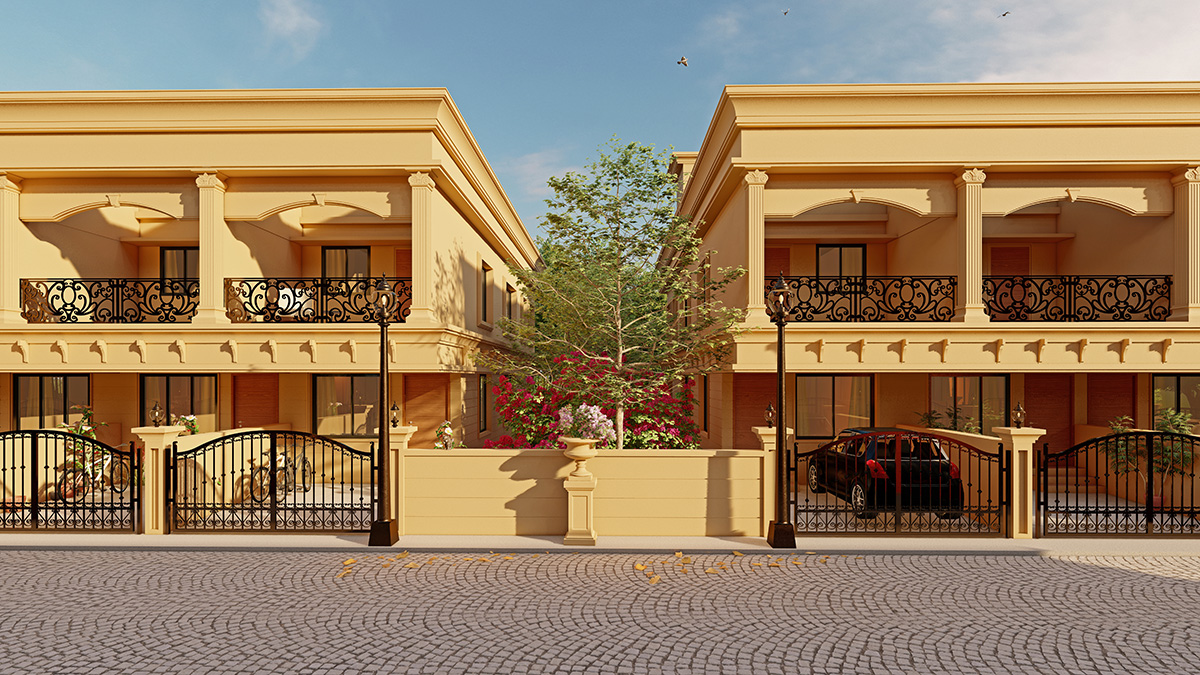
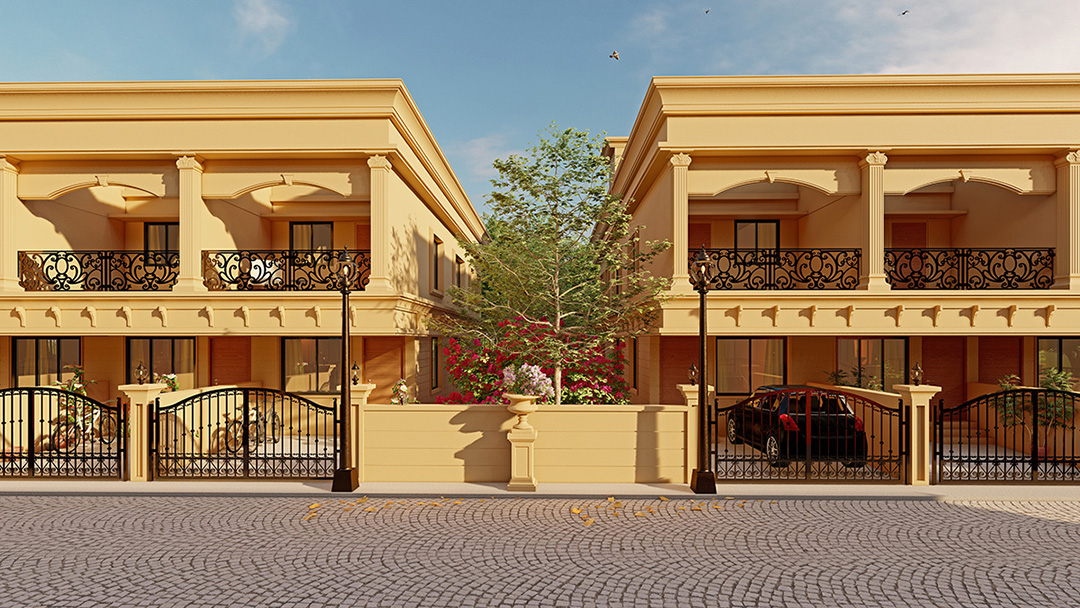
reduce img size

diff --git a/index.html b/index.html
@@ -5,6 +5,8 @@
 
   <meta charset="utf-8">
   <meta content="width=device-width, initial-scale=1.0" name="viewport">
+  <meta http-equiv="Cache-control" content="public" content="max-age=31536000">
+
 
   <title>Piccadilly Greens - Home</title>
   <meta content="Get ready to be awestruck with high quality row bungalows and live your dreams at Piccadilly Greens." name="description">
@@ -16,7 +18,7 @@
   <meta property="og:image" content="./assets/img/PG_Logo_3C.png">
 
  <!-- Google Fonts -->
-  <link href="https://fonts.googleapis.com/css?family=Open+Sans:300,300i,400,400i,600,600i,700,700i|Raleway:300,300i,400,400i,500,500i,600,600i,700,700i" rel="stylesheet">
+  <link href="https://fonts.googleapis.com/css?family=Open+Sans:300,300i,400,400i,600,600i,700,700i|Raleway:300,300i,400,400i,500,500i,600,600i,700,700i&display=swap" rel="stylesheet">
 
   <!-- Vendor CSS Files -->
   <link href="./assets/vendor/bootstrap/css/bootstrap.min.css" rel="stylesheet">
